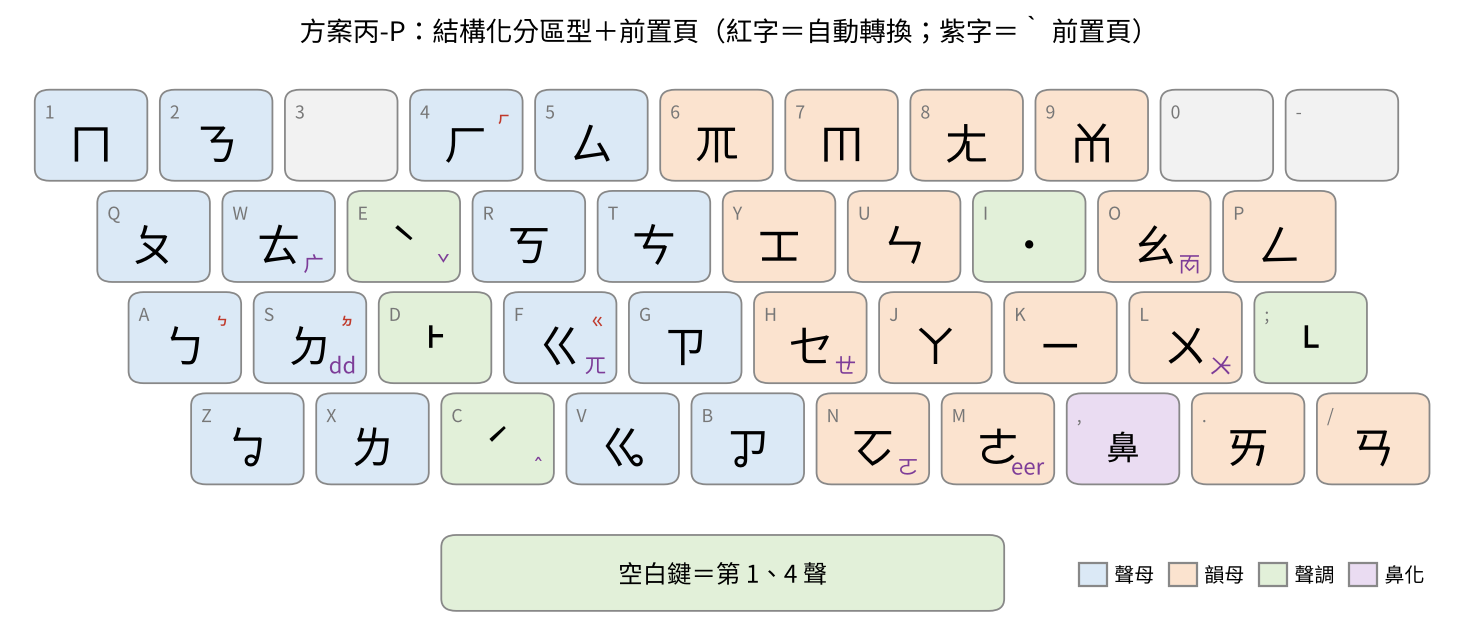
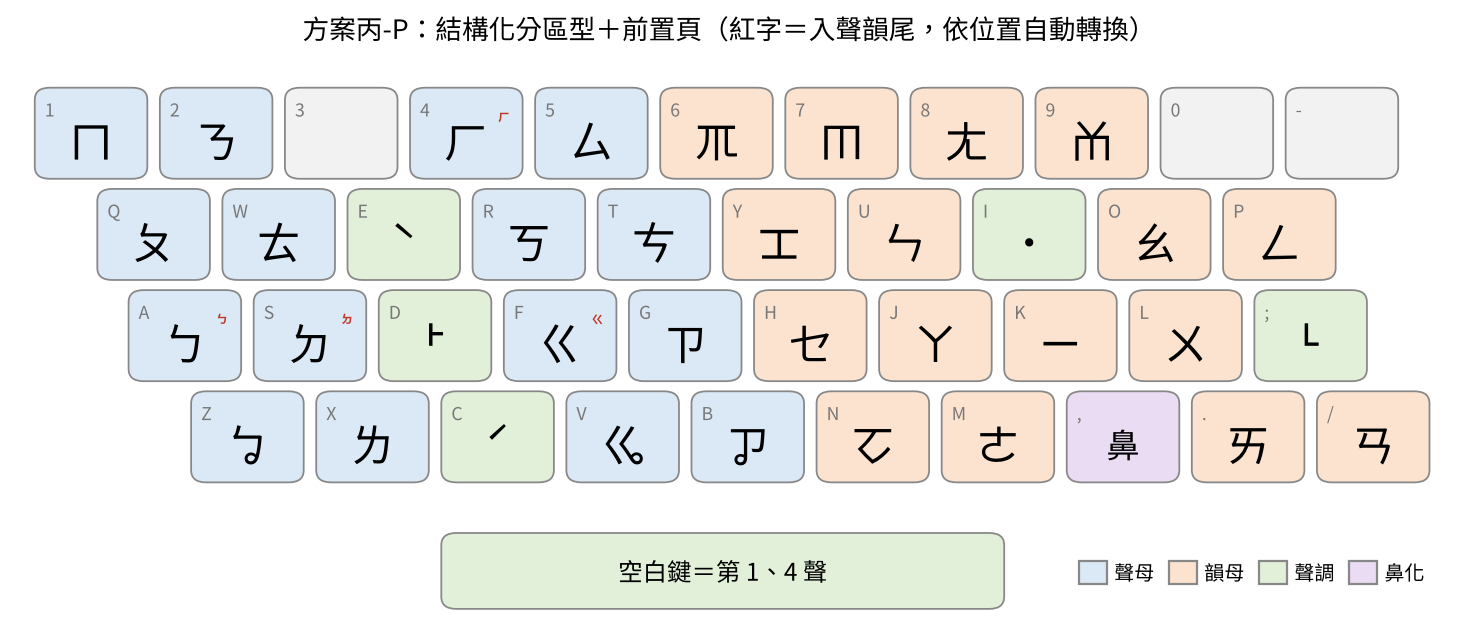
Layout A: tones ˫ ˪ on R and T, ㆠ ㆡ on F and G (learnability)
The author trades the annealed positions of ˫/˪ and ㆠ/ㆡ so that all tone
marks sit in the two upper rows; composite 96.0 (+1.8). A-P+ anneals with
˫ ˪ held on R and T. Figures: red = entering finals, blue = Shift layer;
main-layer figures of the prefix variants no longer show prefix symbols;
Chinese labels for the proposed-layout figures.

Claude-Session: https://claude.ai/code/session_01NAaUPmCiocEBpHhsM43Wwq

diff --git a/figures_proposed.py b/figures_proposed.py
@@ -1,4 +1,4 @@
-import json,matplotlib
+import json,sys,matplotlib
 matplotlib.use('Agg')
 import matplotlib.pyplot as plt
 from matplotlib.patches import FancyBboxPatch
@@ -7,7 +7,17 @@ from model import ROWS
 from config import OUT
 INITIALS=list('ㄅㄆㄇㆠㄉㄊㄋㄌㄍㄎㄫㆣㄏㄗㄘㄙㆡ')
 best=json.load(open(OUT/'layouts_proposed.json',encoding='utf-8'))
-SEC={'ㄅ':'ㆴ','ㄉ':'ㆵ','ㄍ':'ㆻ','ㄏ':'ㆷ','ㆰ':'ㆱ','ˋ':'ˇ','ˊ':'ˆ'}
+AUTO={'ㄅ':'ㆴ','ㄉ':'ㆵ','ㄍ':'ㆻ','ㄏ':'ㆷ'}        # entering finals, converted by position (red)
+SHIFT={'ㆰ':'ㆱ','ˋ':'ˇ','ˊ':'ˆ'}                    # secondary layer, typed with Shift (blue)
+LANG=sys.argv[1] if len(sys.argv)>1 else 'en'
+T={'en':dict(nas='nas',space='Space = tones 1 and 4',leg=['Initial','Rime','Tone','Nasalization'],
+             note=' (red = entering final, converted by position; blue = Shift)',
+             titles={'A':'Layout A: Dachien-preserving','B':'Layout B: hand-split (all initials on the left half)',
+                     'C':'Layout C: structured hand-split (columns = place, rows = manner)','free':'Unconstrained reference'}),
+   'zh':dict(nas='鼻',space='空白鍵＝第 1、4 聲',leg=['聲母','韻母','聲調','鼻化'],
+             note='（紅字＝入聲韻尾，依位置自動轉換；藍字＝Shift）',
+             titles={'A':'方案甲：保留大千式','B':'方案乙：左右分工（聲母全在左半）',
+                     'C':'方案丙：結構化左右分工（行＝發音部位，列＝發音方法）','free':'無限制參考排列'})}[LANG]
 TONES='ˋ˪ˊ˫˙ˇˆ'
 COL={'ini':'#dbe9f6','rime':'#fbe3cf','tone':'#e2f0d9','nas':'#eadcf2','none':'#f2f2f2'}
 def cat(u):
@@ -26,16 +36,16 @@ def draw(m,fn,title):
             u=inv.get(c)
             ax.add_patch(FancyBboxPatch((x+0.05,y+0.05),0.9,0.9,boxstyle='round,pad=0.0,rounding_size=0.12',fc=COL[cat(u)],ec='#888',lw=0.8))
             ax.text(x+0.13,y+0.82,c.upper(),fontsize=8,color='#777',va='top')
-            if u: ax.text(x+0.5,y+0.42,'nas' if u=='N' else u,fontsize=20 if u!='N' else 15,ha='center',va='center')
-            if u in SEC and SEC[u] not in best[m]: ax.text(x+0.85,y+0.82,SEC[u],fontsize=10,color='#c0392b',ha='right',va='top')
+            if u: ax.text(x+0.5,y+0.42,T['nas'] if u=='N' else u,fontsize=20 if u!='N' else 15,ha='center',va='center')
+            if u in AUTO: ax.text(x+0.85,y+0.82,AUTO[u],fontsize=10,color='#c0392b',ha='right',va='top')
+            if u in SHIFT and SHIFT[u] not in best[m]: ax.text(x+0.85,y+0.82,SHIFT[u],fontsize=10,color='#1f5fbf',ha='right',va='top')
     ax.add_patch(FancyBboxPatch((3.3,-0.2),4.5,0.75,boxstyle='round,pad=0.0,rounding_size=0.12',fc=COL['tone'],ec='#888',lw=0.8))
-    ax.text(5.55,0.17,'Space = tones 1 and 4',fontsize=11,ha='center',va='center')
-    for k,(lab,cc) in enumerate([('Initial','ini'),('Rime','rime'),('Tone','tone'),('Nasalization','nas')]):
+    ax.text(5.55,0.17,T['space'],fontsize=11,ha='center',va='center')
+    for k,(lab,cc) in enumerate(zip(T['leg'],['ini','rime','tone','nas'])):
         ax.add_patch(FancyBboxPatch((8.4+k*0.72,0.05),0.22,0.22,boxstyle='square,pad=0',fc=COL[cc],ec='#888'))
         ax.text(8.68+k*0.72,0.16,lab,fontsize=9,va='center')
-    ax.set_title(title+' (red = auto-converted or secondary character)',fontsize=12)
+    ax.set_title(title+T['note'],fontsize=12)
     fig.savefig(OUT/'figures'/fn,dpi=160,bbox_inches='tight');plt.close(fig)
-draw('A','layout_A.png','Layout A: Dachien-preserving')
-draw('B','layout_B.png','Layout B: hand-split (all initials on the left half)')
-draw('C','layout_C.png','Layout C: structured hand-split (columns = place, rows = manner)')
-draw('free','layout_free.png','Unconstrained reference')
+if __name__=='__main__':
+    for m in ('A','B','C','free'):
+        draw(m,f"layout_{m}{'' if LANG=='en' else '_zh'}.png",T['titles'][m])

diff --git a/figures_prefix.py b/figures_prefix.py
@@ -1,6 +1,6 @@
-"""Draw the prefix-key variants (A-P, B-P, C-P): main layer plus the symbols
-reached through the ` prefix page, shown in purple at the lower right of the key
-given by prefix_panel.py (merged symbol page). Usage: python figures_prefix.py [en|zh]"""
+"""Draw the main layer of the prefix-key variants (A-P, B-P, C-P). The symbols reached through
+the ` prefix page are not drawn here; they appear on the symbol page (figures_symbol_page.py).
+Usage: python figures_prefix.py [en|zh]"""
 import json, sys, matplotlib
 matplotlib.use('Agg')
 import matplotlib.pyplot as plt
@@ -15,12 +15,12 @@ COL = {'ini': '#dbe9f6', 'rime': '#fbe3cf', 'tone': '#e2f0d9', 'nas': '#eadcf2',
 LANG = sys.argv[1] if len(sys.argv) > 1 else 'en'
 T = {'en': dict(nas='nas', space='Space = tones 1 and 4',
                 leg=['Initial', 'Rime', 'Tone', 'Nasalization'],
-                note=' (red = auto-converted; purple = via ` prefix page)',
+                note=' (red = entering final, converted by position)',
                 titles={'A-P': 'Layout A-P: Dachien-preserving with prefix page',
                         'B-P': 'Layout B-P: hand-split with prefix page',
                         'C-P': 'Layout C-P: structured hand-split with prefix page'}),
      'zh': dict(nas='鼻', space='空白鍵＝第 1、4 聲', leg=['聲母', '韻母', '聲調', '鼻化'],
-                note='（紅字＝自動轉換；紫字＝‵ 前置頁）',
+                note='（紅字＝入聲韻尾，依位置自動轉換）',
                 titles={'A-P': '方案甲-P：大千保留型＋前置頁',
                         'B-P': '方案乙-P：左右分區型＋前置頁',
                         'C-P': '方案丙-P：結構化分區型＋前置頁'})}[LANG]
@@ -34,10 +34,7 @@ def cat(u):
 
 def draw(lay, fn, title):
     inv = {c: u for u, c in lay.items()}
-    from prefix_panel import panel
-    pre = {}
-    for p, k in panel(lay, ['ㄫ'], True).items():   # merged symbol page (prefix_panel.py)
-        pre[k] = pre.get(k, '') + p
+    pre = {}   # prefix-page symbols are shown on the symbol page, not on the main layer
     fig, ax = plt.subplots(figsize=(11.5, 4.6)); ax.set_xlim(-0.1, 11.3); ax.set_ylim(-0.3, 5.3); ax.axis('off')
     offs = [0, 0.5, 0.75, 1.25]
     for ri, r in enumerate(ROWS):

diff --git a/opt.py b/opt.py
@@ -84,6 +84,15 @@ LEFT=[c for c in CELLS if model.FINGER[c]<5]
 A_TONES={'ˇ':'3','ˆ':'5'}
 A_CELLS=[c for c in CELLS if c not in A_TONES.values()]
 def a_allowed(units): return {u:A_CELLS for u in units if u not in DAQIAN}
+# Learnability adjustment of Layout A, chosen by the author after the annealing: the two frequent
+# Taiwanese tones ˫ and ˪ trade keys with the voiced initials ㆠ and ㆡ, so that every tone mark sits
+# in the two upper rows (3-7, R, T) and the initials below; it costs about 1.8 composite points.
+def a_learn(lay):
+    lay=dict(lay)
+    for t,i in (('˫','ㆠ'),('˪','ㆡ')):
+        if t in lay and i in lay: lay[t],lay[i]=lay[i],lay[t]
+    return lay
+A_UPPER=['r','t']   # the keys the adjustment gives to ˫ and ˪
 if __name__=='__main__':
     mode=sys.argv[1];seed=int(sys.argv[2])
     # A = Dachien-preserving, B = hand-split (initials on the left half), free = unconstrained

diff --git a/evaluate.py b/evaluate.py
@@ -67,7 +67,8 @@ def shift_share(lay, allo, precomp):
     return 100 * sh / tot
 
 if __name__ == '__main__':
-    prop = {'A': dict(best_run('A'), **opt.A_TONES), 'B': best_run('B'), 'free': best_run('free')}
+    prop = {'A': opt.a_learn(dict(best_run('A'), **opt.A_TONES)), 'B': best_run('B'), 'free': best_run('free')}
+    assert {prop['A']['˫'], prop['A']['˪']} == set(opt.A_UPPER), 'Layout A: tones not on R and T'
     prop['C'] = structured(prop['B'])
     json.dump(prop, open(OUT / 'layouts_proposed.json', 'w', encoding='utf-8'), ensure_ascii=False, indent=1)
     ref = model.evaluate(layouts.TPS, allo=True, tps_ent=True)

diff --git a/prefix_variants.py b/prefix_variants.py
@@ -40,7 +40,9 @@ def run(args):
     vname, mode, seed = args
     moved = VARIANTS[vname]; reduce_units(moved)
     ini = [u for u in opt.INITIALS if u not in moved]
-    if mode == 'A': fixed, allowed = opt.DAQIAN, opt.a_allowed(opt.U)
+    if mode == 'A':   # as Layout A: ˇ on 3, ˆ on 5, and the tones ˫ ˪ on R and T
+        fixed, allowed = opt.DAQIAN, opt.a_allowed(opt.U)
+        allowed.update({t: opt.A_UPPER for t in ('˫', '˪')})
     else: fixed, allowed = {}, {u: opt.LEFT for u in ini}
     c, lay = opt.anneal(fixed, allowed, iters=ITERS, seed=seed)
     if mode == 'A': lay = dict(lay, **opt.A_TONES)

diff --git a/README.md b/README.md
@@ -38,7 +38,7 @@ Expected output of step 4 (composite score: Taigi-TPS = 100, lower is better). T
 | Taigi Keyboard (Windows) | 8.22 | 1.290 | 3.52 | 20.5% | 104.6 |
 | Wu Shou-Li (Mandarin-extended, desktop only) | 9.85 | — | 3.50 | 19.1% | — |
 | Taigi Keyboard (Android) | — | 1.396 | 3.74 | 36.7% | — |
-| Layout A (Dachien-preserving) | 7.20 | 1.190 | 3.37 | 0.0% | 94.2 |
+| Layout A (Dachien-preserving) | 7.44 | 1.198 | 3.37 | 0.0% | 96.0 |
 | Layout B (hand-split) | 4.26 | 1.022 | 3.37 | 0.0% | 68.9 |
 | Layout C (structured hand-split) | 4.76 | 1.060 | 3.37 | 0.0% | 73.6 |
 | Unconstrained reference | 4.27 | 1.006 | 3.37 | 0.0% | 68.3 |
@@ -62,7 +62,7 @@ Expected output of step 4 (composite score: Taigi-TPS = 100, lower is better). T
 | `prefix_panel.py` | Key assignment of the prefix panel (merged first page: digit keys keep their digits, variants move down the column; keys of symbols a layout keeps on the main layer are left blank) |
 | `symbol_page.py` | First symbol page of each layout: TPS variants, digits and common full-width punctuation on the 41-key grid, plus an extra row |
 | `figures_prefix.py`, `figures_prefix_panel.py`, `figures_symbol_page.py` | Figures of the prefix variants and of the prefix panel (`python figures_prefix_panel.py en merged`) |
-| `figures_*.py` | Keyboard figures |
+| `figures_*.py` | Keyboard figures (`python figures_proposed.py zh` for Chinese labels) |
 | `out/` | Results: proposed layouts, scores and figures |
 
 The ChhoeTaigi data are not redistributed here; `get_data.py` downloads them from the original repository.
